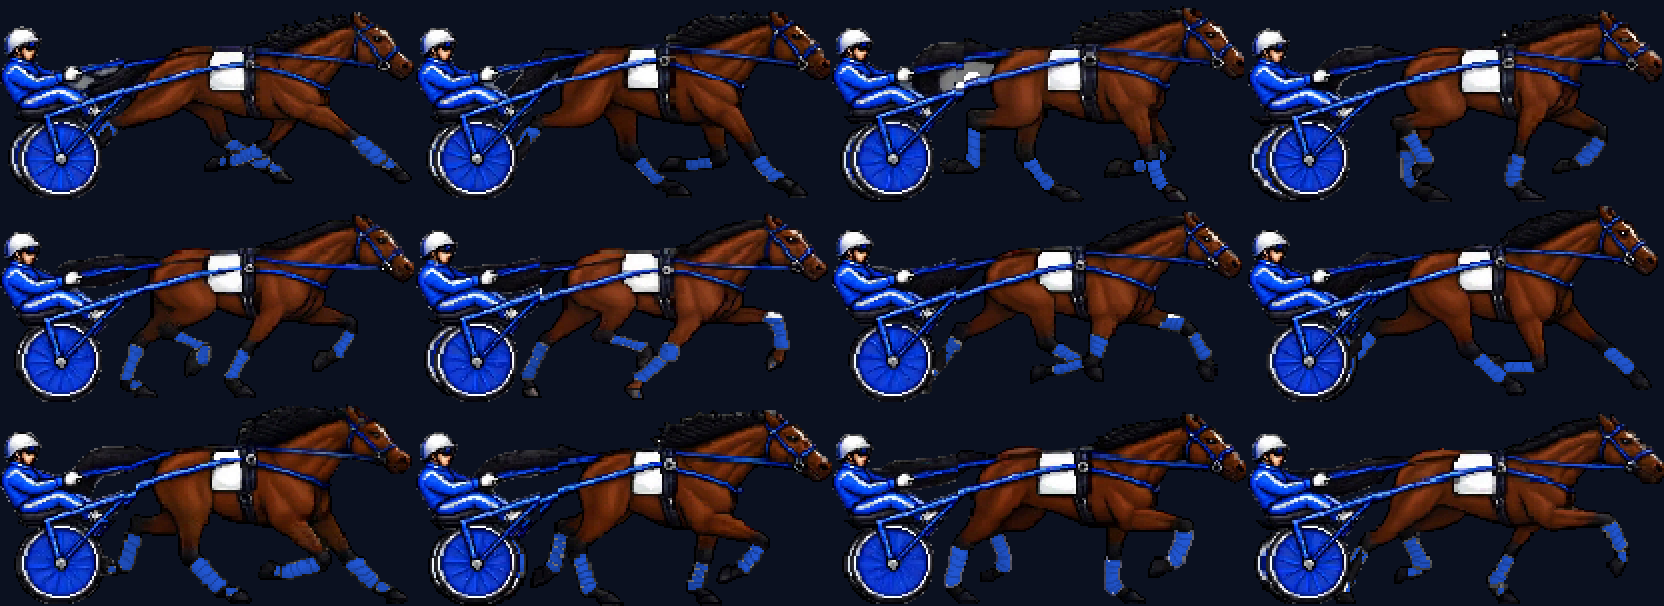
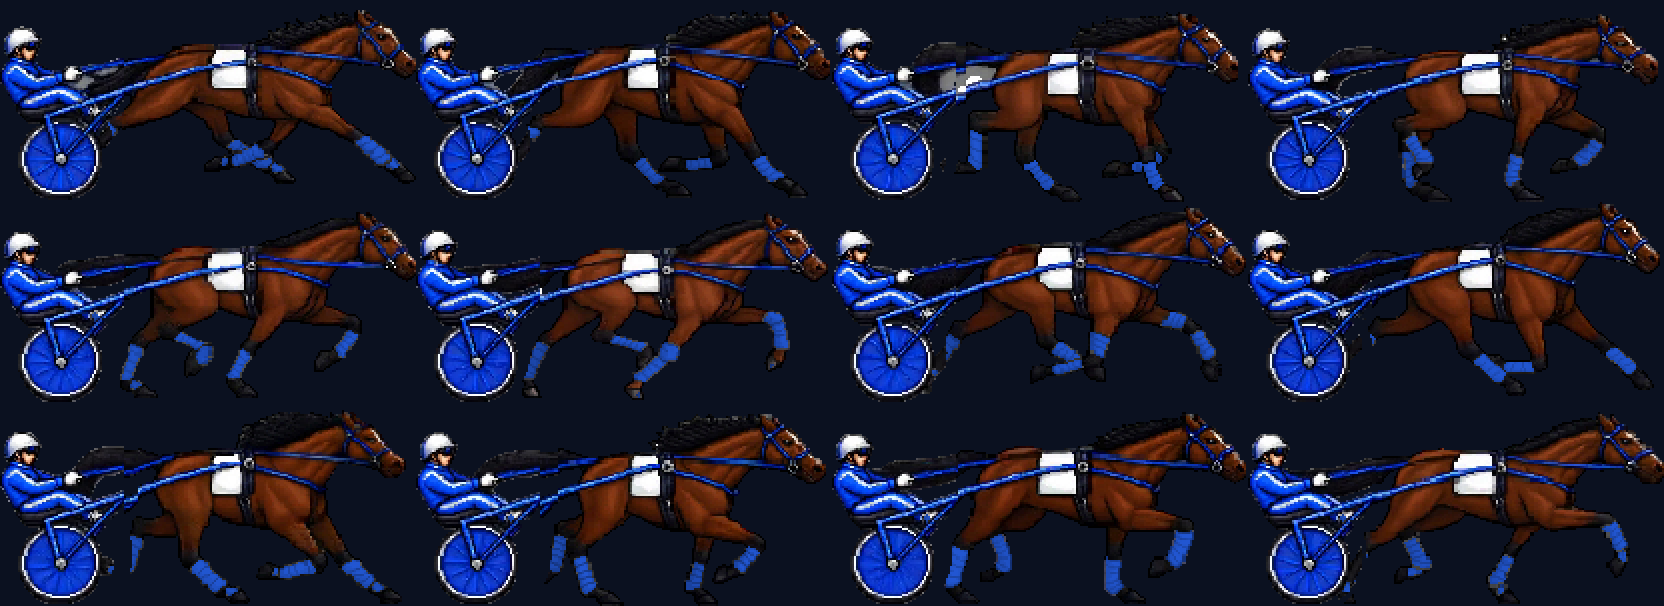
Deploy 2026-10-30 14:22

diff --git a/mockups/replay_hd2d.html b/mockups/replay_hd2d.html
@@ -660,7 +660,7 @@ const cycleLoaded = new Promise(r => { const i = new Image(); i.onload = () => {
 // Side view only for now; the angle, overhead and drive-cam sheets stay bare.
 const WRAPS_OK = !RIG && !PAINTED;                                    // the race data may not be in yet: load the sheet, pick per horse later
 let wrapImg = null, wrapMask = null;
-const wrapLoaded = WRAPS_OK ? Promise.all(["wraps12", "wraps12_mask"].map(n => new Promise(r => { const i = new Image(); i.onload = () => { if (n === "wraps12") wrapImg = i; else wrapMask = i; r(); }; i.onerror = r; i.src = P(`/mock/pixel/tack/${n}.png?v=3`); }))) : Promise.resolve();
+const wrapLoaded = WRAPS_OK ? Promise.all(["wraps12", "wraps12_mask"].map(n => new Promise(r => { const i = new Image(); i.onload = () => { if (n === "wraps12") wrapImg = i; else wrapMask = i; r(); }; i.onerror = r; i.src = P(`/mock/pixel/tack/${n}.png?v=4`); }))) : Promise.resolve();
 function wrapTint(c, hex) {
   if (!wrapMask) return c;
   if (!wrapTint.m) { const k = document.createElement("canvas"); k.width = wrapMask.width; k.height = wrapMask.height; const kg = k.getContext("2d"); kg.drawImage(wrapMask, 0, 0); wrapTint.m = kg.getImageData(0, 0, k.width, k.height).data; }

diff --git a/art/tack_layers/assemble_wraps.py b/art/tack_layers/assemble_wraps.py
@@ -72,9 +72,34 @@ def settle(cell, i):
     return out
 
 
+def size(cell, i):
+    """The horse held to today's size in this frame: scaled about its hooves' line until its area (right of the bike)
+    matches the stock runner's, so a wrapped horse never reads bigger than the rest of the field."""
+    import numpy as np
+    a = (np.array(orig.crop((i * W, 0, (i + 1) * W, H)))[:, 70:, 3] > 0).sum()
+    b = (np.array(cell)[:, 70:, 3] > 0).sum()
+    k = (a / b) ** .5
+    if abs(k - 1) < .005:
+        return cell
+    bb = cell.getbbox(); cx, by = (bb[0] + bb[2]) / 2, bb[3]
+    sc = cell.resize((round(W * k), round(H * k)), Image.NEAREST)
+    out = Image.new("RGBA", (W, H)); out.paste(sc, (round(cx - cx * k), round(by - by * k)), sc)
+    return out
+
+
 def steady(cell, i):
     """Today's wheel and driver laid over SpriteCook's: they're the same on every horse, so they never pulse."""
+    from anchors import anchors, wheel_w
     o = orig.crop((i * W, 0, (i + 1) * W, H)); po, pc = o.load(), cell.load()
+    a = anchors(cell)
+    if a:                                                               # SpriteCook's own wheel cleared first, so no second rim shows
+        (cx, cy), r = a[0], wheel_w(cell) / 2 + 3
+        for y in range(H):
+            for x in range(W):
+                p = pc[x, y]
+                warm = p[0] > p[1] + 12 and p[0] > p[2] + 25 and not p[2] > p[0] + 40      # the horse's own coat stays
+                if p[3] and not warm and ((x - cx) ** 2 + (y - cy) ** 2) ** .5 <= r:
+                    pc[x, y] = (0, 0, 0, 0)
     for y in range(H):
         for x in range(70):
             in_wheel = ((x - 30) ** 2 + (y - 75) ** 2) ** .5 <= 27
@@ -92,6 +117,12 @@ def wraps(cell):
             p = px[x, y]
             if ((x - 27) ** 2 + (y - 82) ** 2) ** .5 > 24 and p[3] and max(p[:3]) - min(p[:3]) < 38 and sum(p[:3]) > 360:
                 mp[x, y] = 255
+    pale = lambda p: p[3] and max(p[:3]) - min(p[:3]) < 45 and sum(p[:3]) > 250
+    for _ in range(3):                                                    # three rings out from the wraps
+        grow = [(x, y) for y in range(int(H * 0.5), H) for x in range(30, W) if not mp[x, y] and pale(px[x, y])
+                and any(0 <= x + dx < W and 0 <= y + dy < H and mp[x + dx, y + dy] for dx, dy in ((1, 0), (-1, 0), (0, 1), (0, -1)))]
+        for x, y in grow:
+            mp[x, y] = 255
     return m
 
 
@@ -105,7 +136,7 @@ def tint(cell, mask, hx):
 
 
 if __name__ == "__main__":
-    cells = [steady(settle(fit(i), i), i) for i in range(N)]; masks = [wraps(c) for c in cells]
+    cells = [steady(size(settle(fit(i), i), i), i) for i in range(N)]; masks = [wraps(c) for c in cells]
     for i, m in enumerate(masks):
         assert m.getbbox(), f"frame {i}: no wraps found"
     sheet, msheet = Image.new("RGBA", (W * N, H)), Image.new("L", (W * N, H))

diff --git a/tack_art.py b/tack_art.py
@@ -87,7 +87,7 @@ def paint(pieces, cols, c1, c2):
 def render(pieces, cols, c1, c2):
     """The model's PNG at 3x, cached like the emblems; returns its path under /mock."""
     pieces = tuple(p for p in PIECES if p in pieces)
-    key = "tack|" + ",".join(pieces) + "|" + ",".join(f"{k}{v}" for k, v in sorted(cols.items())) + f"|{c1}|{c2}|v4"
+    key = "tack|" + ",".join(pieces) + "|" + ",".join(f"{k}{v}" for k, v in sorted(cols.items())) + f"|{c1}|{c2}|v5"
     name = hashlib.md5(key.encode()).hexdigest()[:12] + ".png"
     path = os.path.join(CACHE, name)
     if not os.path.exists(path):
